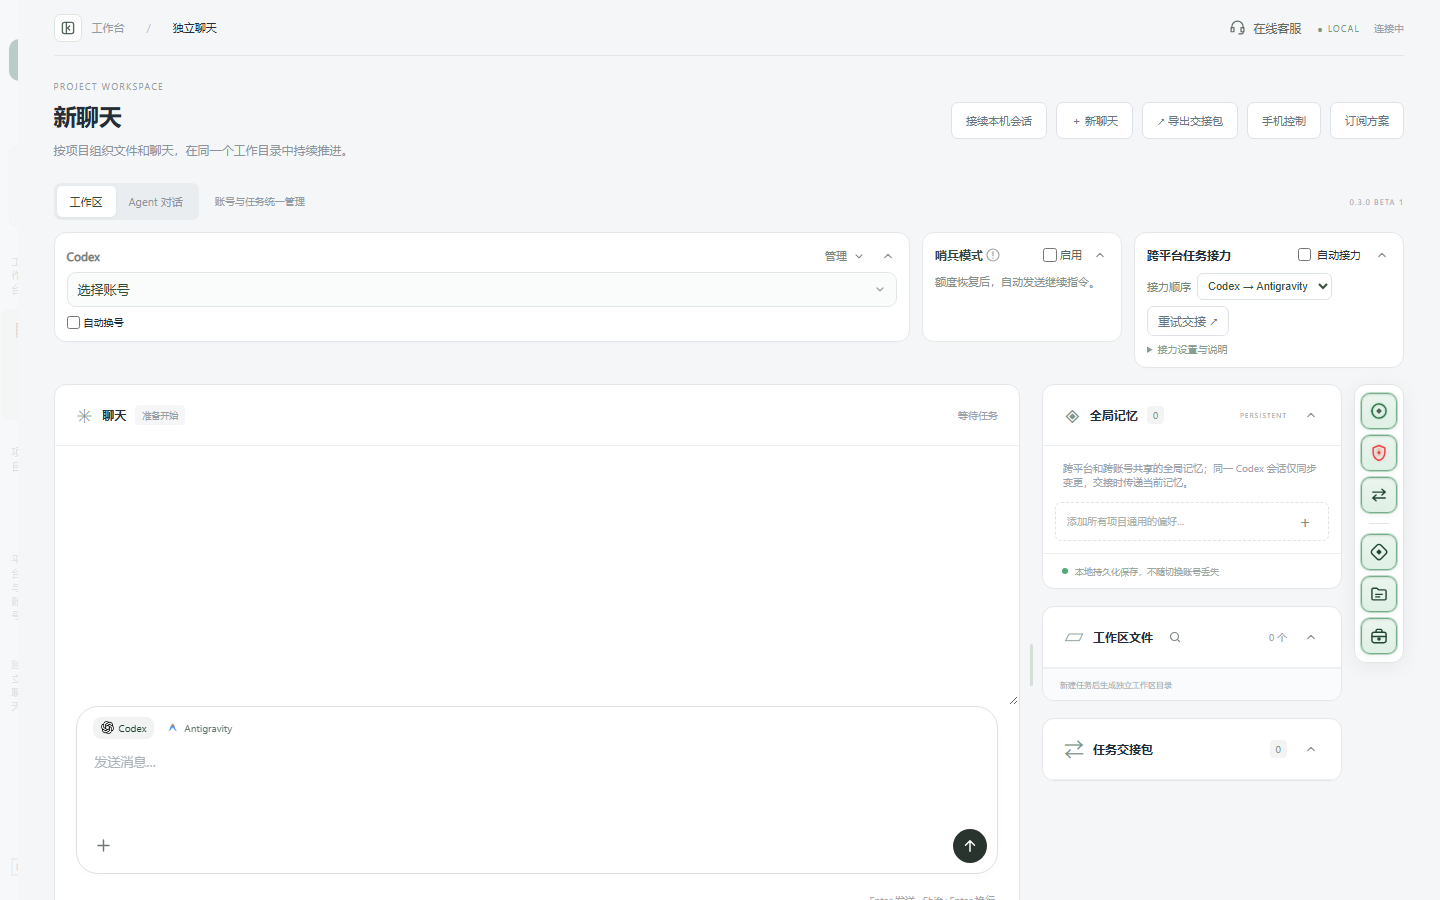
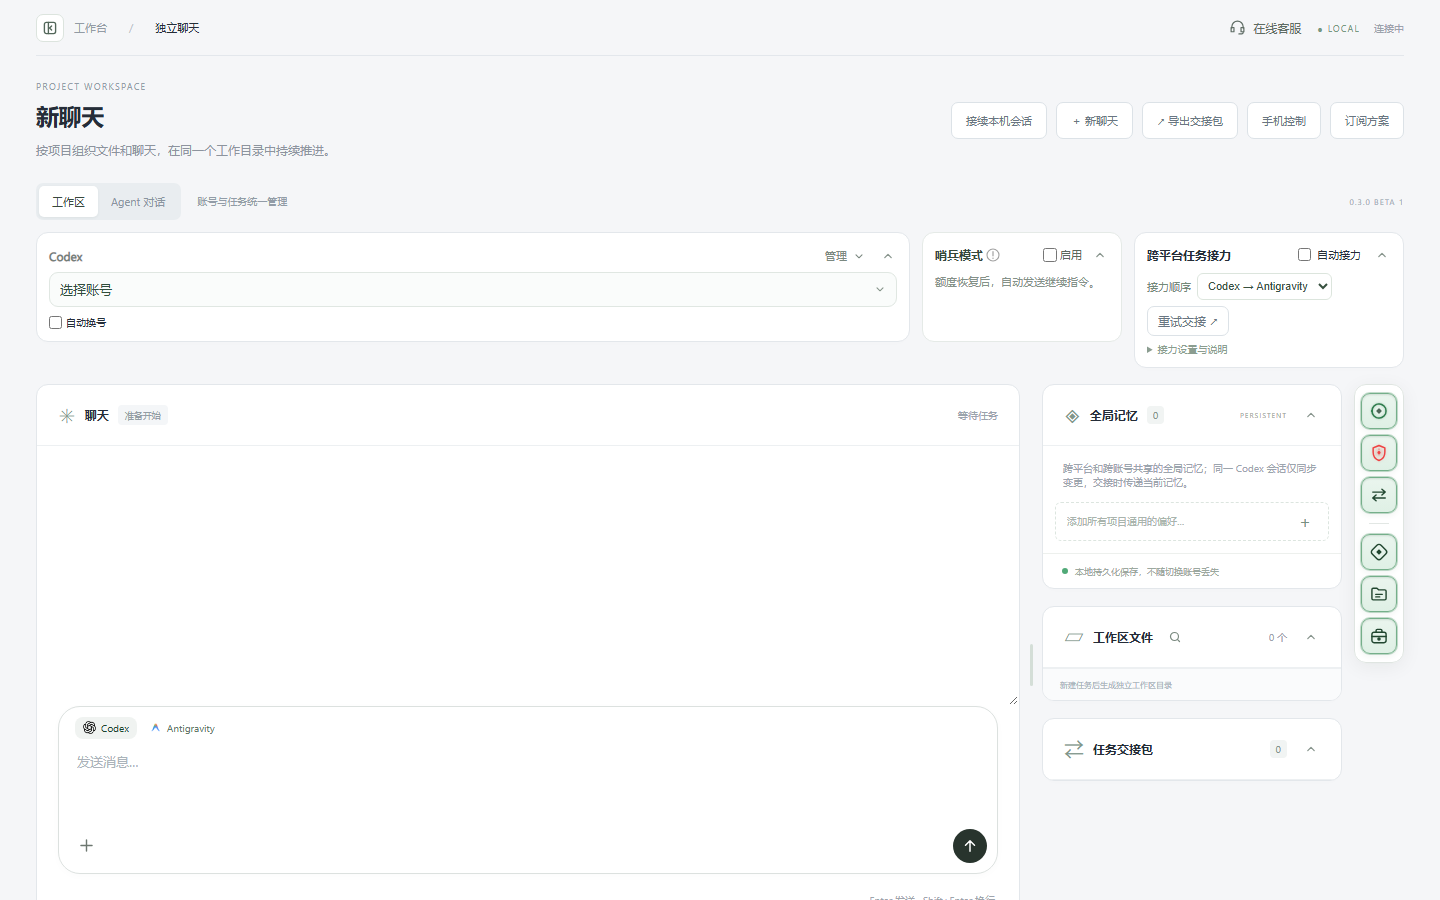
fix(ui): ensure desktop sidebar collapsed state hides completely and recapture screenshot

diff --git a/public/index.html b/public/index.html
@@ -1,7 +1,7 @@
 <!doctype html>
 <html lang="zh-CN">
 <head><meta charset="UTF-8"><meta name="viewport" content="width=device-width,initial-scale=1"><title>拼好算 agent desk · 本地 AI Agent 工作台</title><link rel="icon" type="image/png" href="/brand/pinghaosuan-logo-selected.png?v=20261008"><link rel="stylesheet" href="/style.css"><link rel="stylesheet" href="/device-ui.css">  <link rel="stylesheet" href="/membership-ui.css">
-<link rel="stylesheet" href="/support-ui.css"></head>
+<link rel="stylesheet" href="/support-ui.css"><script>if(new URLSearchParams(window.location.search).get('sidebar')==='collapsed'||(new URLSearchParams(window.location.search).get('sidebar')!=='expanded'&&localStorage.getItem('desk_sidebar_collapsed')==='1')){document.write('<style>.sidebar{display:none!important;width:0!important;padding:0!important;border:none!important;opacity:0!important;pointer-events:none!important;margin:0!important}</style>');}</script></head>
 <body>
   <aside class="sidebar">
     <a class="brand" href="/" aria-label="拼好算 agent desk 首页"><img class="brand-logo" src="/brand/pinghaosuan-logo-selected.png?v=20261008" alt="拼好算 Logo" width="42" height="42"><span>拼好算<small>agent desk</small></span></a>

diff --git a/public/style.css b/public/style.css
@@ -740,7 +740,7 @@ button:disabled{cursor:not-allowed}
 .sidebar-toggle-btn{display:inline-flex;align-items:center;justify-content:center;width:28px;height:28px;border-radius:7px;border:1px solid #dce4de;background:#fff;color:#53675a;cursor:pointer;padding:0;transition:all .18s cubic-bezier(0.16,1,0.3,1)}
 .sidebar-toggle-btn:hover{background:#f0f6f2;border-color:#84b896;color:#183f28;box-shadow:0 2px 6px rgba(0,0,0,0.06);transform:scale(1.04)}
 .sidebar{transition:width .22s cubic-bezier(0.16,1,0.3,1),padding .22s cubic-bezier(0.16,1,0.3,1),opacity .18s ease;overflow-x:hidden}
-.sidebar.is-collapsed{width:0!important;min-width:0!important;padding:0!important;border-right:none!important;opacity:0!important;pointer-events:none;margin:0!important}
+aside.sidebar.is-collapsed{display:none!important;width:0!important;max-width:0!important;min-width:0!important;padding:0!important;margin:0!important;border:none!important;opacity:0!important;visibility:hidden!important;pointer-events:none!important;overflow:hidden!important}aside.sidebar.is-collapsed *{display:none!important}
 
 /* Chat Markdown & Typography */
 .event-text{line-height:1.68;font-size:13.5px;color:#242d38}
